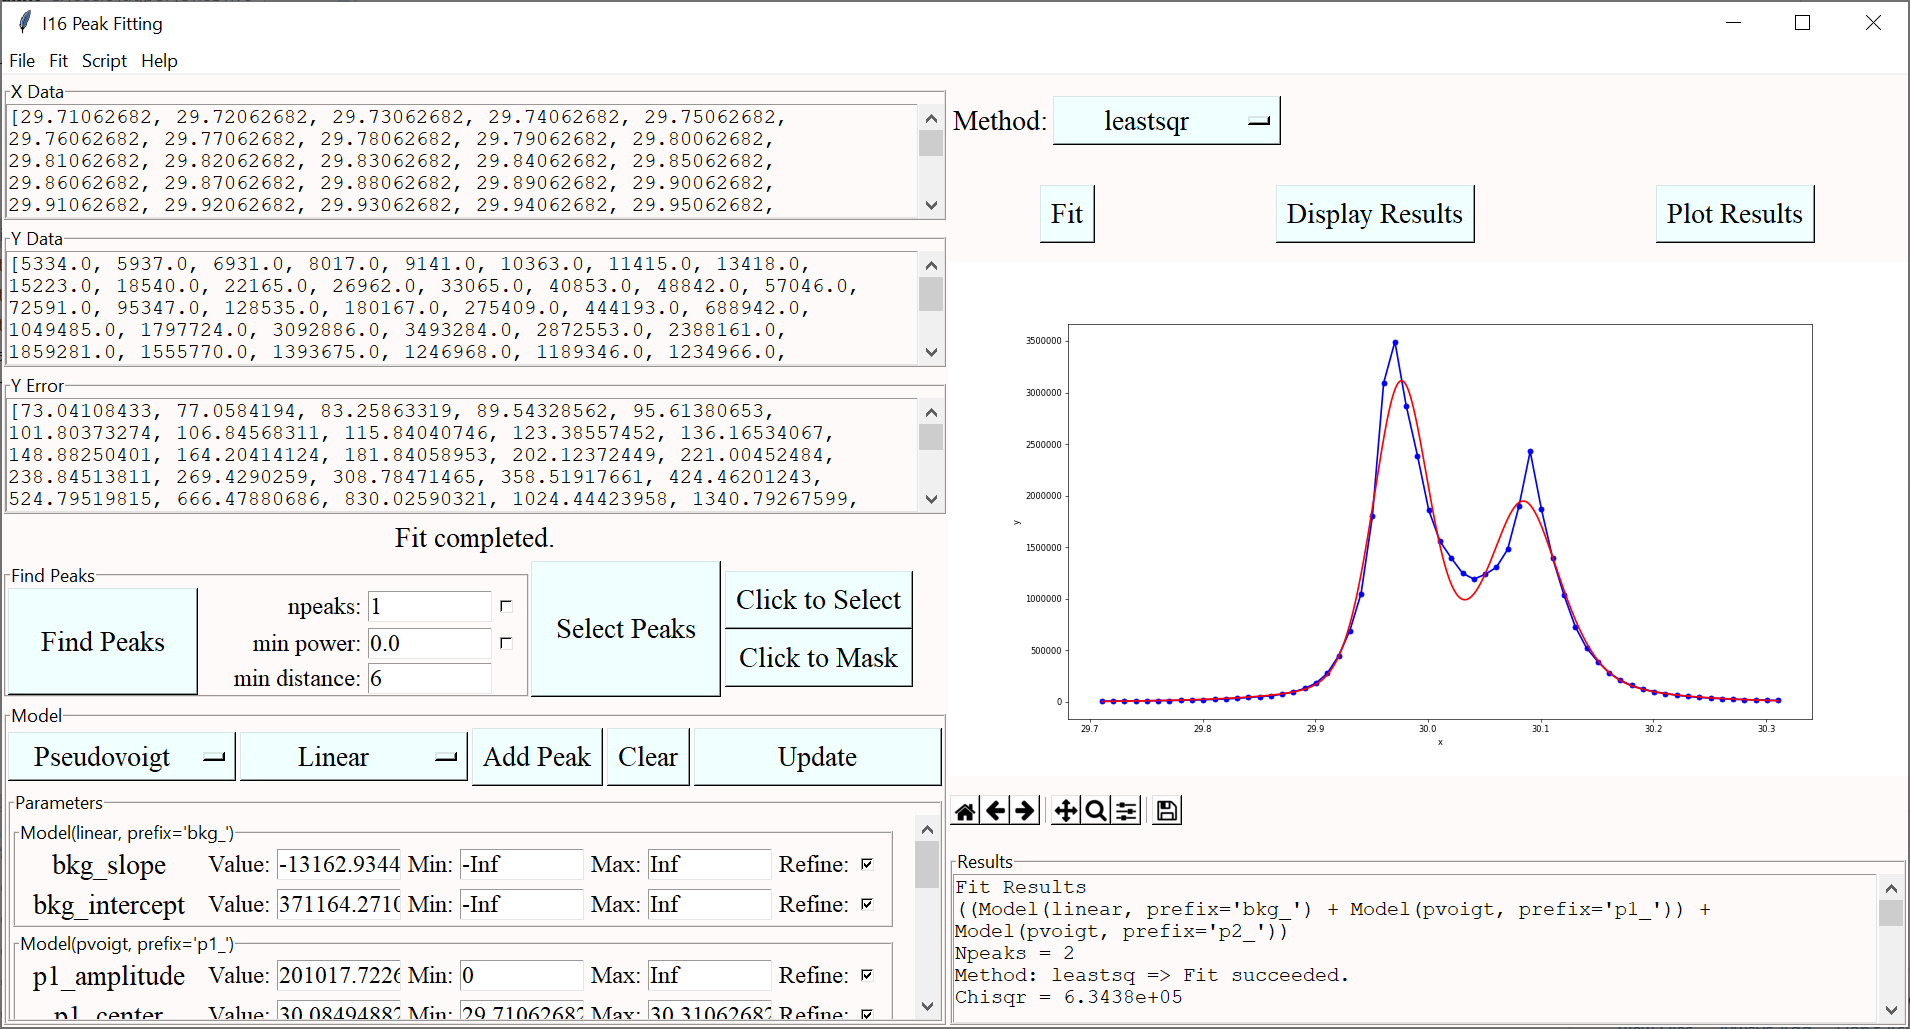
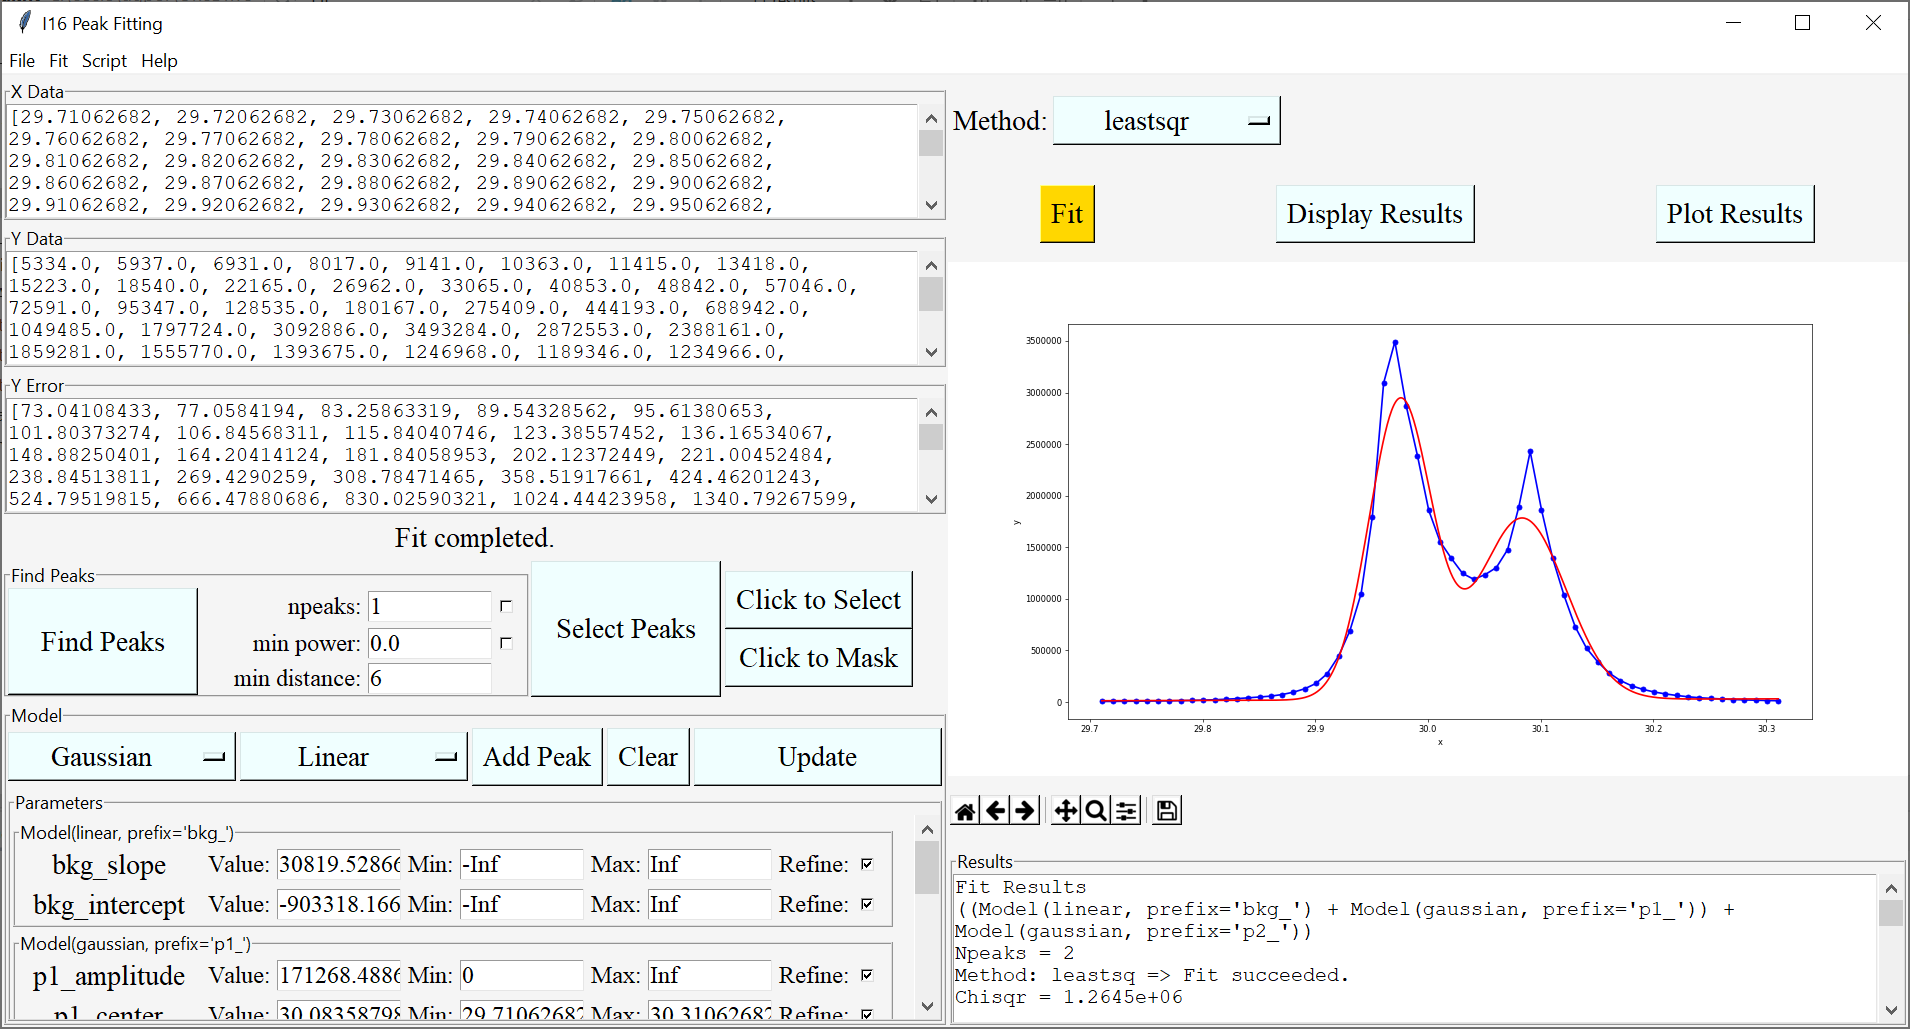
Version 1.0.0 Slight changes and image added to readme, changed colours

diff --git a/i16_peakfit/tkinter_gui.py b/i16_peakfit/tkinter_gui.py
@@ -10,30 +10,10 @@ import tkinter as tk
 
 from i16_peakfit import fitting
 from i16_peakfit import tk_widgets
+from .tk_widgets import (TF, BF, SF, HF, MF, LF,
+                         bkg, ety, btn, btn2, opt, btn_active, opt_active, txtcol,
+                         ety_txt, btn_txt, opt_txt, ttl_txt)
 
-
-# Fonts
-TF = ["Times", 12]  # entry
-BF = ["Times", 14]  # Buttons
-SF = ["Times New Roman", 14]  # Title labels
-MF = ["Courier", 8]  # fixed distance format
-LF = ["Times", 14]  # Labels
-HF = ["Courier", 12]  # Text widgets (big)
-# Colours - background
-bkg = 'snow'
-ety = 'white'
-btn = 'azure'  # 'light slate blue'
-opt = 'azure'  # 'light slate blue'
-btn2 = 'gold'
-# Colours - active
-btn_active = 'grey'
-opt_active = 'grey'
-# Colours - Fonts
-txtcol = 'black'
-btn_txt = 'black'
-ety_txt = 'black'
-opt_txt = 'black'
-ttl_txt = 'red'
 # Figure size
 _figure_dpi = 60
 
@@ -198,7 +178,7 @@ class FittingGUI:
         # X
         sec = tk.LabelFrame(left, text='X Data', relief=tk.RIDGE)
         sec.pack(side=tk.TOP, fill=tk.X, expand=tk.YES, padx=2, pady=2)
-        self.txt_x = tk.Text(sec, width=65, wrap=tk.WORD, height=5)
+        self.txt_x = tk.Text(sec, width=65, wrap=tk.WORD, height=5, bg=ety)
         self.txt_x.insert(tk.INSERT, str(list(xdata)))
         scl = tk.Scrollbar(sec)
         scl.config(command=self.txt_x.yview)
@@ -209,7 +189,7 @@ class FittingGUI:
         # Y
         sec = tk.LabelFrame(left, text='Y Data', relief=tk.RIDGE)
         sec.pack(side=tk.TOP, fill=tk.X, expand=tk.YES, padx=2, pady=2)
-        self.txt_y = tk.Text(sec, width=65, wrap=tk.WORD, height=5)
+        self.txt_y = tk.Text(sec, width=65, wrap=tk.WORD, height=5, bg=ety)
         self.txt_y.insert(tk.INSERT, str(list(ydata)))
         scl = tk.Scrollbar(sec)
         scl.config(command=self.txt_y.yview)
@@ -220,7 +200,7 @@ class FittingGUI:
         # Error
         sec = tk.LabelFrame(left, text='Y Error', relief=tk.RIDGE)
         sec.pack(side=tk.TOP, fill=tk.X, expand=tk.YES, padx=2, pady=2)
-        self.txt_e = tk.Text(sec, width=65, wrap=tk.WORD, height=5)
+        self.txt_e = tk.Text(sec, width=65, wrap=tk.WORD, height=5, bg=ety)
         self.txt_e.insert(tk.INSERT, str(list(yerrors)))
         scl = tk.Scrollbar(sec)
         scl.config(command=self.txt_e.yview)
@@ -353,7 +333,7 @@ class FittingGUI:
         sec = tk.Frame(right)
         sec.pack(side=tk.TOP, fill=tk.X, expand=tk.YES, padx=2, pady=2)
         var = tk.Button(sec, text='Fit', font=BF, command=self.but_fit,
-                        bg=btn, activebackground=btn_active)
+                        bg=btn2, activebackground=btn_active)
         var.pack(side=tk.LEFT, expand=tk.YES, padx=2)
         var = tk.Button(sec, text='Display Results', font=BF, command=self.but_txt_results,
                         bg=btn, activebackground=btn_active)
@@ -395,7 +375,7 @@ class FittingGUI:
         # ---Right hand bottom - Results textbox---
         sec = tk.LabelFrame(right, text='Results', relief=tk.RIDGE)
         sec.pack(side=tk.TOP, fill=tk.BOTH, expand=tk.YES, padx=2, pady=2)
-        self.txt_res = tk.Text(sec, width=30, wrap=tk.WORD, height=5)
+        self.txt_res = tk.Text(sec, width=30, wrap=tk.WORD, height=5, bg=ety)
         self.txt_res.insert(tk.INSERT, '')
         scl = tk.Scrollbar(sec)
         scl.config(command=self.txt_res.yview)

diff --git a/i16_peakfit/tk_widgets.py b/i16_peakfit/tk_widgets.py
@@ -18,8 +18,8 @@ MF = ["Courier", 8]  # fixed distance format
 LF = ["Times", 14]  # Labels
 HF = ["Courier", 12]  # Text widgets (big)
 # Colours - background
-bkg = 'snow'
-ety = 'white'
+bkg = 'white smoke'
+ety = 'white'  # white
 btn = 'azure'  # 'light slate blue'
 opt = 'azure'  # 'light slate blue'
 btn2 = 'gold'
